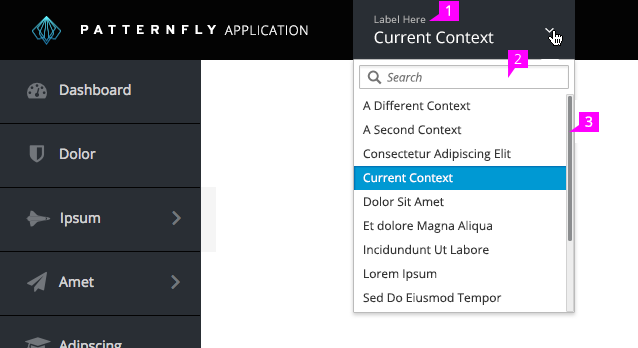
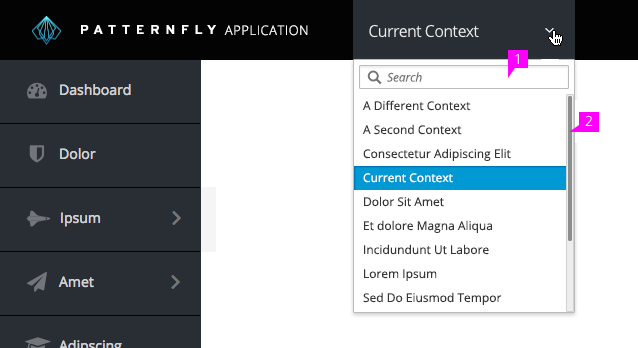
Updated a commit without "label"
I am not sure whether need to keep the label, so I updated a new commit without label.
If we need to keep the label, just abandon this commit.

Changed region(s): [[0.5658, 0.0, 0.7743, 0.1437], [0.8041, 0.1437, 0.8339, 0.1724]]

diff --git a/pattern-library/navigation/context-selector/design/design.md b/pattern-library/navigation/context-selector/design/design.md
@@ -3,7 +3,7 @@
 ## Dropdown Details
 ![Context Selector Search](img/context-selector-dropdown-detail.png)
 
-1. If the context names are user-generated, a label should be included above the selector.
+
 1. If there is a search bar, it should be at the very top of the menu.
 1. If there are many items (i.e. more than 12), the dropdown should scroll and a search field should be added to filter the list as the user types.
 
